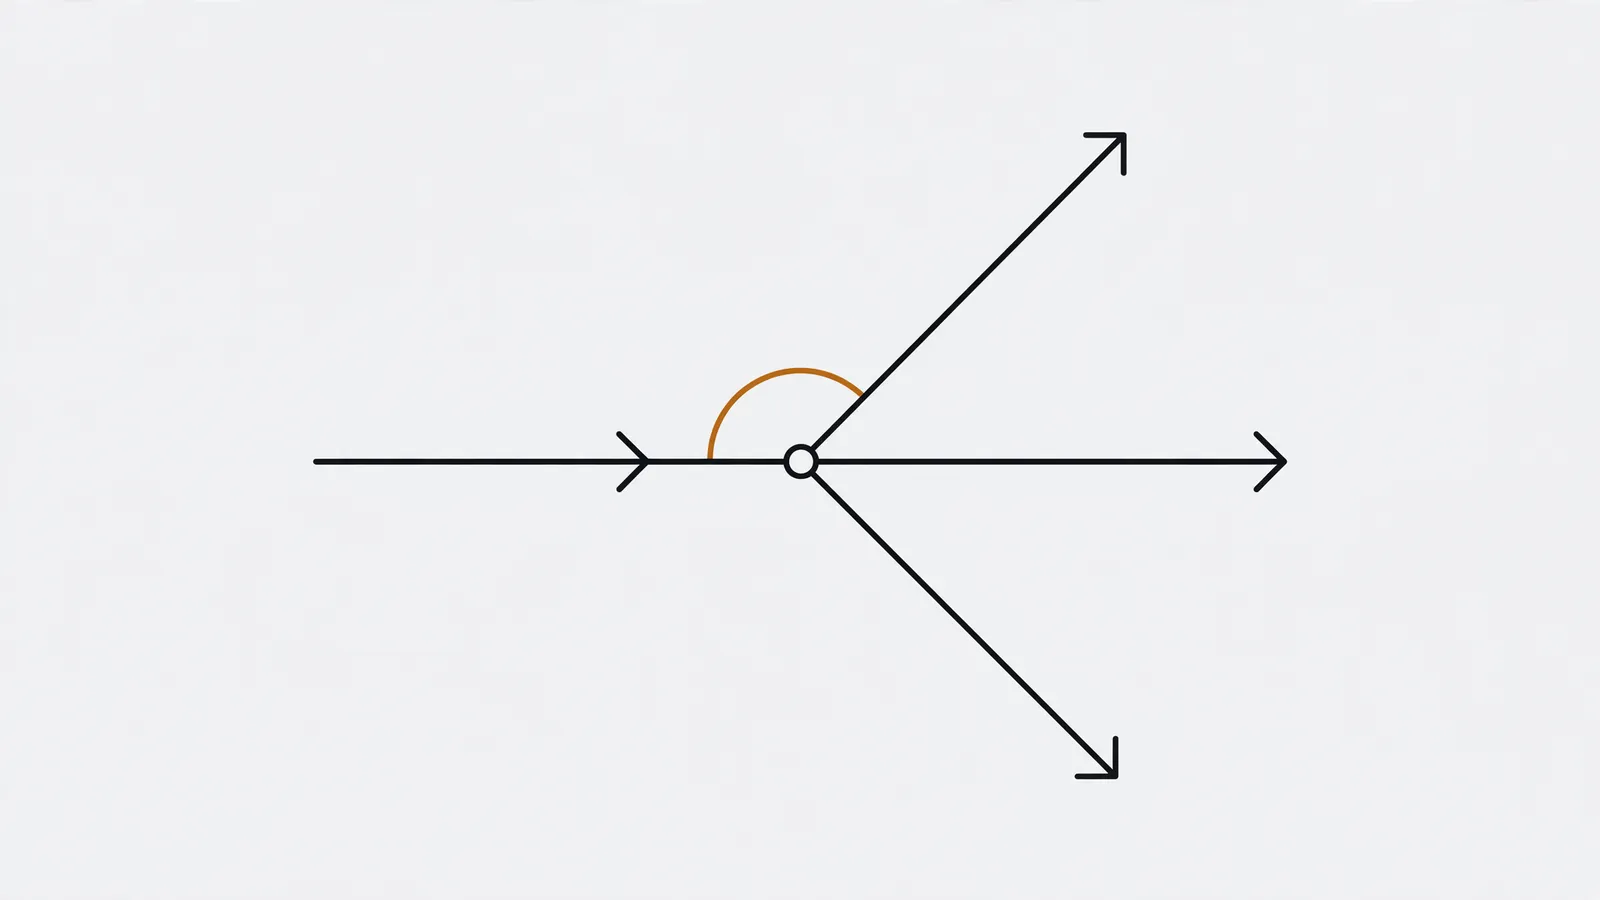
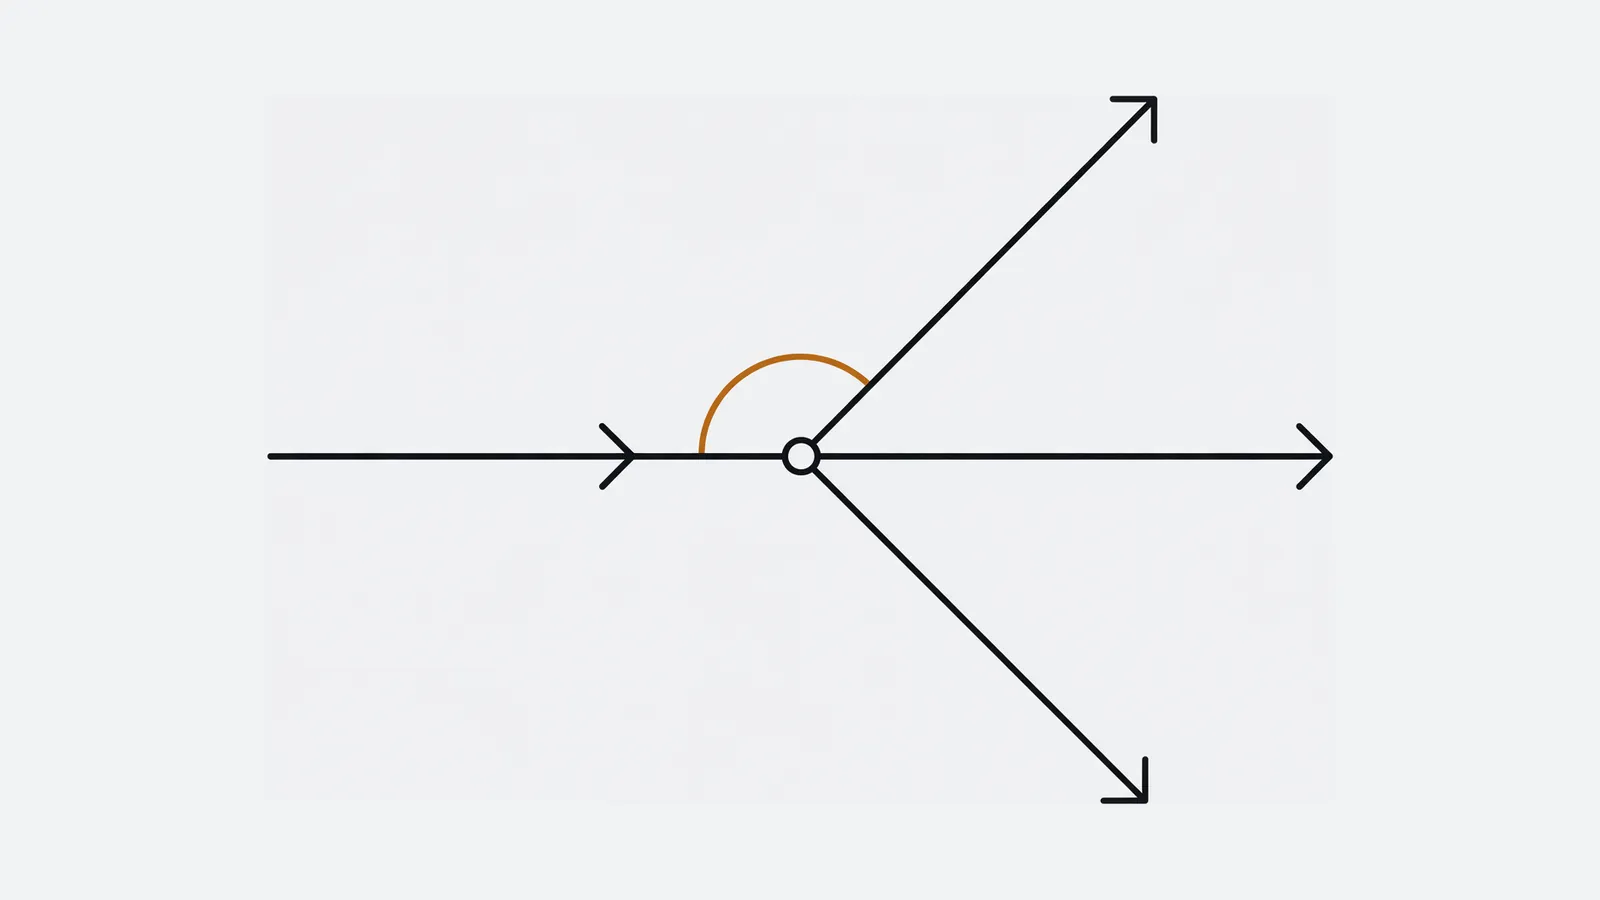
Polish: plates trimmed and normalised, anatomy re-laid, phone rail, jump focus

diff --git a/index.html b/index.html
@@ -268,7 +268,7 @@ question: category=choice:Which budget category?|utilities:Power, water, interne
         <figure class="case__plate plate" data-sc-reveal="left" data-sc-reveal-at="0.04 0.3">
           <div class="plate__frame" data-sc-tilt="5">
             <img src="assets/plates/plate-01.webp" width="1600" height="900"
-                 alt="Minimalist diagram for case 1: a single long horizontal bar of stacked identical tally marks on the left, a narrow vertical gate, and four separate open bins on the right receiving marks; the marks enter the gate one at a time and continue to one bin only." loading="lazy" decoding="async">
+                 alt="Minimalist diagram for case 1: a single wide horizontal open rectangle divided by four thin vertical hairlines into five empty cells, each cell holding one short horizontal hairline of a different length; the middle cell&#x27;s hairline is amber instead of ink." loading="lazy" decoding="async">
           </div>
           <figcaption>Plate 01. The shape of the job, drawn without labels on purpose.</figcaption>
         </figure>
@@ -1487,11 +1487,11 @@ question: fits=Could this step be answered by picking between options you could 
     <div data-sc-stage data-sc-spotlight class="sc-wrap anatomy">
       <h2 class="sc-display sc-display--md anatomy__h" id="anatomy-h" data-sc-cue="0 0.34 0" data-sc-kinetic="lines">One message, three typed questions, one call.</h2>
       <div class="anatomy__grid">
-        <div class="anatomy__card" data-sc-cue="0 0.42 0">
+        <div class="anatomy__card" data-sc-cue="0.14 1 0.2 0">
           <h3>The state</h3>
           <p class="anatomy__state">Order A-104 was charged twice this morning. I need the duplicate charge refunded.</p>
         </div>
-        <div class="anatomy__card" data-sc-cue="0.16 0.62">
+        <div class="anatomy__card" data-sc-cue="0.14 1 0.2 0">
           <h3>The questions</h3>
           <dl class="shape shape--tight">
             <div class="shape__row"><dt>noul</dt><dd>yes or no, returned as a probability</dd></div>
@@ -1499,9 +1499,8 @@ question: fits=Could this step be answered by picking between options you could 
             <div class="shape__row"><dt>score</dt><dd>where it lands on four urgency levels</dd></div>
           </dl>
         </div>
-      </div>
-      <div class="anatomy__card anatomy__answers" data-sc-cue="0.4 1 0.2 0">
-        <h3>The answers, as they came back</h3>
+        <div class="anatomy__card anatomy__answers" data-sc-cue="0.4 1 0.2 0">
+          <h3>The answers, as they came back</h3>
         <div class="answers">
           <div class="answer">
             <p class="answer__q">asking for a refund?</p>

diff --git a/site.css b/site.css
@@ -175,6 +175,16 @@ summary:focus-visible,
   background: none; border: 0; padding: 0; cursor: pointer;
   display: flex; align-items: center; justify-content: center;
 }
+/* Nineteen 44px targets do not fit beside the readout on a phone, and the rail
+   is an indicator first: it narrows there so the count stays legible and no
+   tick is pushed off the edge. The index panel is the navigation on touch. */
+@media (max-width: 47.9rem) {
+  .ledger__track { gap: 1px; }
+  .rail__tick { width: .9rem; }
+}
+
+/* Anything jumped to from the index would otherwise land under the fixed bar. */
+section[id], .case { scroll-margin-top: 4.9rem; }
 .rail__tick i {
   display: block; width: 3px; height: 42%;
   background: color-mix(in oklab, var(--sc-ink) 55%, #ffffff);
@@ -325,7 +335,10 @@ summary:focus-visible,
 
 .plate { margin: 0; }
 .plate__frame { border: 1px solid var(--line); border-radius: var(--r); overflow: hidden; background: var(--sc-surface); }
-.plate img { display: block; width: 100%; height: auto; }
+.plate img { display: block; width: 100%; height: auto;
+  /* hairline diagrams lose definition at card scale on a light ground; a touch
+     of contrast keeps the strokes from dissolving into the paper */
+  filter: contrast(1.08) saturate(1.04); }
 .plate figcaption { margin-top: .7rem; font-size: .78rem; color: var(--sc-ink-soft); }
 
 .code, .prompt {
@@ -384,7 +397,15 @@ summary:focus-visible,
            padding-block: 4.4rem 1rem; }
 .anatomy__h { margin: 0; }
 .anatomy__grid { display: grid; gap: clamp(.8rem, 2vw, 1.4rem); }
-@media (min-width: 62rem) { .anatomy__grid { grid-template-columns: minmax(0, 1.05fr) minmax(0, .95fr); } }
+/* Two columns, filled: the state and the questions stack down the left, and the
+   answers card takes the full right column. Three cards in a two-cell row left
+   a hole in the composition whenever only one of them was live. */
+@media (min-width: 62rem) {
+  .anatomy__grid { grid-template-columns: minmax(0, .92fr) minmax(0, 1.08fr); align-items: start; }
+  .anatomy__grid > .anatomy__card:nth-child(1) { grid-column: 1; grid-row: 1; }
+  .anatomy__grid > .anatomy__card:nth-child(2) { grid-column: 1; grid-row: 2; }
+  .anatomy__answers { grid-column: 2; grid-row: 1 / span 2; }
+}
 .anatomy__card {
   background: var(--sc-surface); border: 1px solid var(--line-card);
   border-radius: var(--r); padding: clamp(.8rem, 1.6vh, 1.1rem) clamp(.9rem, 1.6vw, 1.2rem);

diff --git a/site.js b/site.js
@@ -90,13 +90,13 @@
     var openers = Array.prototype.slice.call(document.querySelectorAll("[data-index-toggle]"));
     if (!panel) return;
 
-    function setOpen(open) {
+    function setOpen(open, keepFocus) {
       panel.setAttribute("data-open", open ? "true" : "false");
       openers.forEach(function (b) { b.setAttribute("aria-expanded", open ? "true" : "false"); });
       if (open) {
         var first = panel.querySelector("a");
         if (first) first.focus({ preventScroll: true });
-      } else {
+      } else if (!keepFocus) {
         var btn = document.querySelector("[data-index-toggle]");
         if (btn) btn.focus({ preventScroll: true });
       }
@@ -108,7 +108,17 @@
       });
     });
     panel.addEventListener("click", function (e) {
-      if (e.target.closest("a")) setOpen(false);
+      var a = e.target.closest("a");
+      if (!a) return;
+      /* A jump should leave the caret at the case, not back on the button at the
+         top of the page: the reader's next keystroke belongs to what they chose. */
+      setOpen(false, true);
+      var id = (a.getAttribute("href") || "").slice(1);
+      var target = id ? document.getElementById(id) : null;
+      if (target) {
+        if (!target.hasAttribute("tabindex")) target.setAttribute("tabindex", "-1");
+        target.focus({ preventScroll: true });
+      }
     });
     document.addEventListener("keydown", function (e) {
       if (e.key === "Escape" && panel.getAttribute("data-open") === "true") setOpen(false);

diff --git a/scripts/compress_plates.py b/scripts/compress_plates.py
@@ -16,6 +16,50 @@ WIDTH = 1600
 QUALITY = 80
 
 
+def plate_command(png, webp):
+    """Trim to the drawing, re-pad evenly, then resize.
+
+    The model frames its diagram with a lot of empty paper, and it does so
+    unevenly (one plate's subject covers a tenth of the frame, another fills it).
+    At card scale that means identical strokes end up at different apparent
+    weights, and the small subjects dissolve into the paper. Trimming to the
+    content and re-padding by a fixed share of the frame normalises every plate
+    to the same subject scale, which is what makes the set read as one shoot.
+    """
+    probe = subprocess.run(
+        ["magick", "identify", "-format", "%w %h", str(png)],
+        capture_output=True, text=True, check=True)
+    w, h = (int(v) for v in probe.stdout.split())
+    trimmed = subprocess.run(
+        ["magick", str(png), "-fuzz", "6%", "-trim", "-format", "%w %h", "info:"],
+        capture_output=True, text=True, check=True)
+    try:
+        tw, th = (int(v) for v in trimmed.stdout.split())
+    except ValueError:
+        tw, th = w, h
+    # A trim that took almost everything is a failed read, not a tight subject.
+    if tw < w * 0.25 or th < h * 0.25:
+        tw, th = w, h
+        trim = False
+    else:
+        trim = True
+    pad = round(max(tw, th) * 0.09)
+    # Re-pad to a 16:9 frame, so every plate on the page keeps the same shape
+    # while the drawing inside it fills as much of that frame as its own aspect
+    # allows.
+    cw = max(tw + 2 * pad, round((th + 2 * pad) * 16 / 9))
+    ch = round(cw * 9 / 16)
+    args = ["magick", str(png)]
+    if trim:
+        args += ["-fuzz", "6%", "-trim", "+repage"]
+    args += ["-bordercolor", "#f1f2f4", "-border", f"{pad}",
+             "-background", "#f1f2f4", "-gravity", "center",
+             "-extent", f"{cw}x{ch}"]
+    args += ["-resize", f"{WIDTH}x", "-strip", "-quality", str(QUALITY),
+             "-define", "webp:method=6", str(webp)]
+    return args
+
+
 def main(force=False):
     pngs = sorted(PLATES.glob("plate-*.png"))
     if not pngs:
@@ -27,11 +71,7 @@ def main(force=False):
         if webp.exists() and not force and webp.stat().st_mtime > png.stat().st_mtime:
             skipped += 1
             continue
-        subprocess.run(
-            ["magick", str(png), "-resize", f"{WIDTH}x", "-strip",
-             "-quality", str(QUALITY), "-define", "webp:method=6", str(webp)],
-            check=True,
-        )
+        subprocess.run(plate_command(png, webp), check=True)
         done += 1
     total = sum(p.stat().st_size for p in PLATES.glob("plate-*.webp"))
     raw = sum(p.stat().st_size for p in PLATES.glob("plate-*.png"))

diff --git a/scripts/build_page.py b/scripts/build_page.py
@@ -270,11 +270,11 @@ TEMPLATE = """<!doctype html>
     <div data-sc-stage data-sc-spotlight class="sc-wrap anatomy">
       <h2 class="sc-display sc-display--md anatomy__h" id="anatomy-h" data-sc-cue="0 0.34 0" data-sc-kinetic="lines">One message, three typed questions, one call.</h2>
       <div class="anatomy__grid">
-        <div class="anatomy__card" data-sc-cue="0 0.42 0">
+        <div class="anatomy__card" data-sc-cue="0.14 1 0.2 0">
           <h3>The state</h3>
           <p class="anatomy__state">{state}</p>
         </div>
-        <div class="anatomy__card" data-sc-cue="0.16 0.62">
+        <div class="anatomy__card" data-sc-cue="0.14 1 0.2 0">
           <h3>The questions</h3>
           <dl class="shape shape--tight">
             <div class="shape__row"><dt>noul</dt><dd>yes or no, returned as a probability</dd></div>
@@ -282,9 +282,8 @@ TEMPLATE = """<!doctype html>
             <div class="shape__row"><dt>score</dt><dd>where it lands on four urgency levels</dd></div>
           </dl>
         </div>
-      </div>
-      <div class="anatomy__card anatomy__answers" data-sc-cue="0.4 1 0.2 0">
-        <h3>The answers, as they came back</h3>
+        <div class="anatomy__card anatomy__answers" data-sc-cue="0.4 1 0.2 0">
+          <h3>The answers, as they came back</h3>
         <div class="answers">
           <div class="answer">
             <p class="answer__q">asking for a refund?</p>

diff --git a/scripts/gen_plates.py b/scripts/gen_plates.py
@@ -27,7 +27,10 @@ STYLE = (
     "no 3D, no clay, no glow, no drop shadow. Palette: near-black ink #15181C lines on a "
     "cool light grey paper ground #F1F2F4, with a single deep amber #B4721A accent used on "
     "exactly one element. Generous negative space, centred composition, wide even margins, "
-    "quiet and precise, like a page from a technical manual. Scene: {scene} "
+    "quiet and precise, like a page from a technical manual. The drawing fills the "
+    "frame: the composition spans nearly the full width and nearly the full height "
+    "of the picture, with even margins of about a tenth of the frame, so there is "
+    "no large empty band at the top, bottom or sides. Scene: {scene} "
     "Absolutely no text, no letters, no numbers, no words, no captions, no labels, no "
     "watermark, no logo, no signature, no initials, no people, no faces, no emoji. "
     "The picture is unsigned, unlettered and unlabelled."
